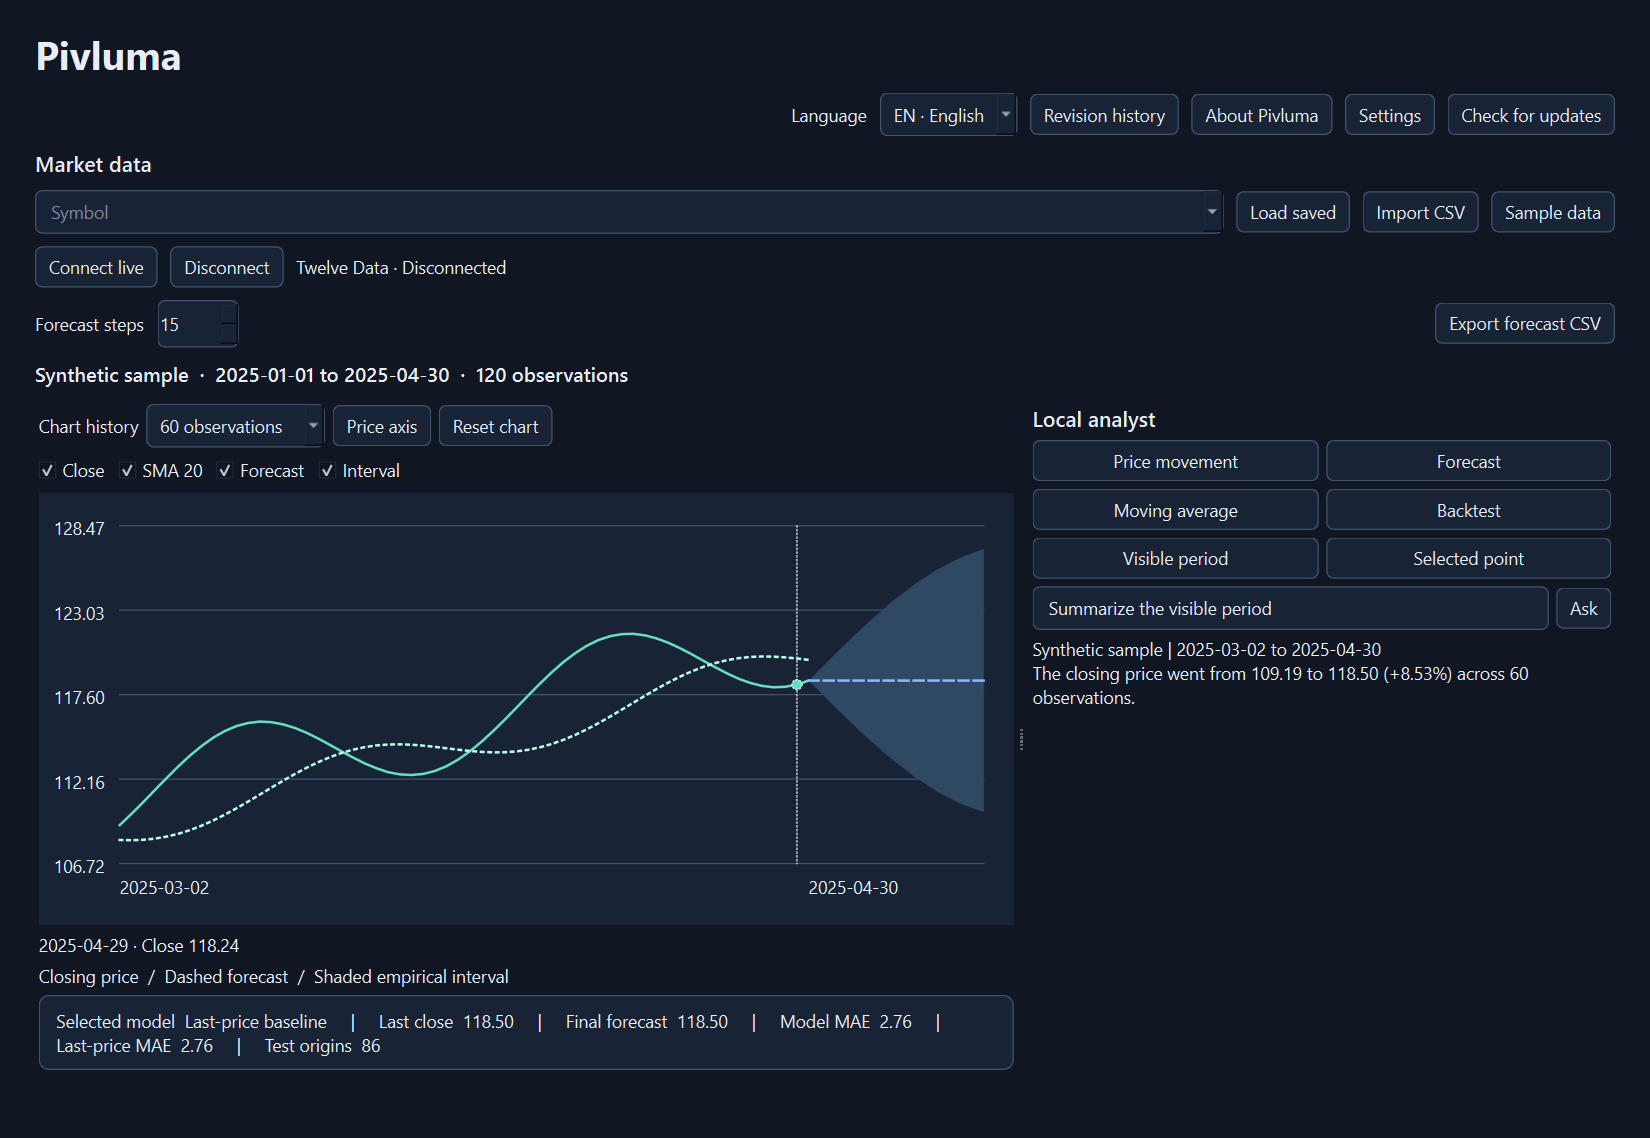
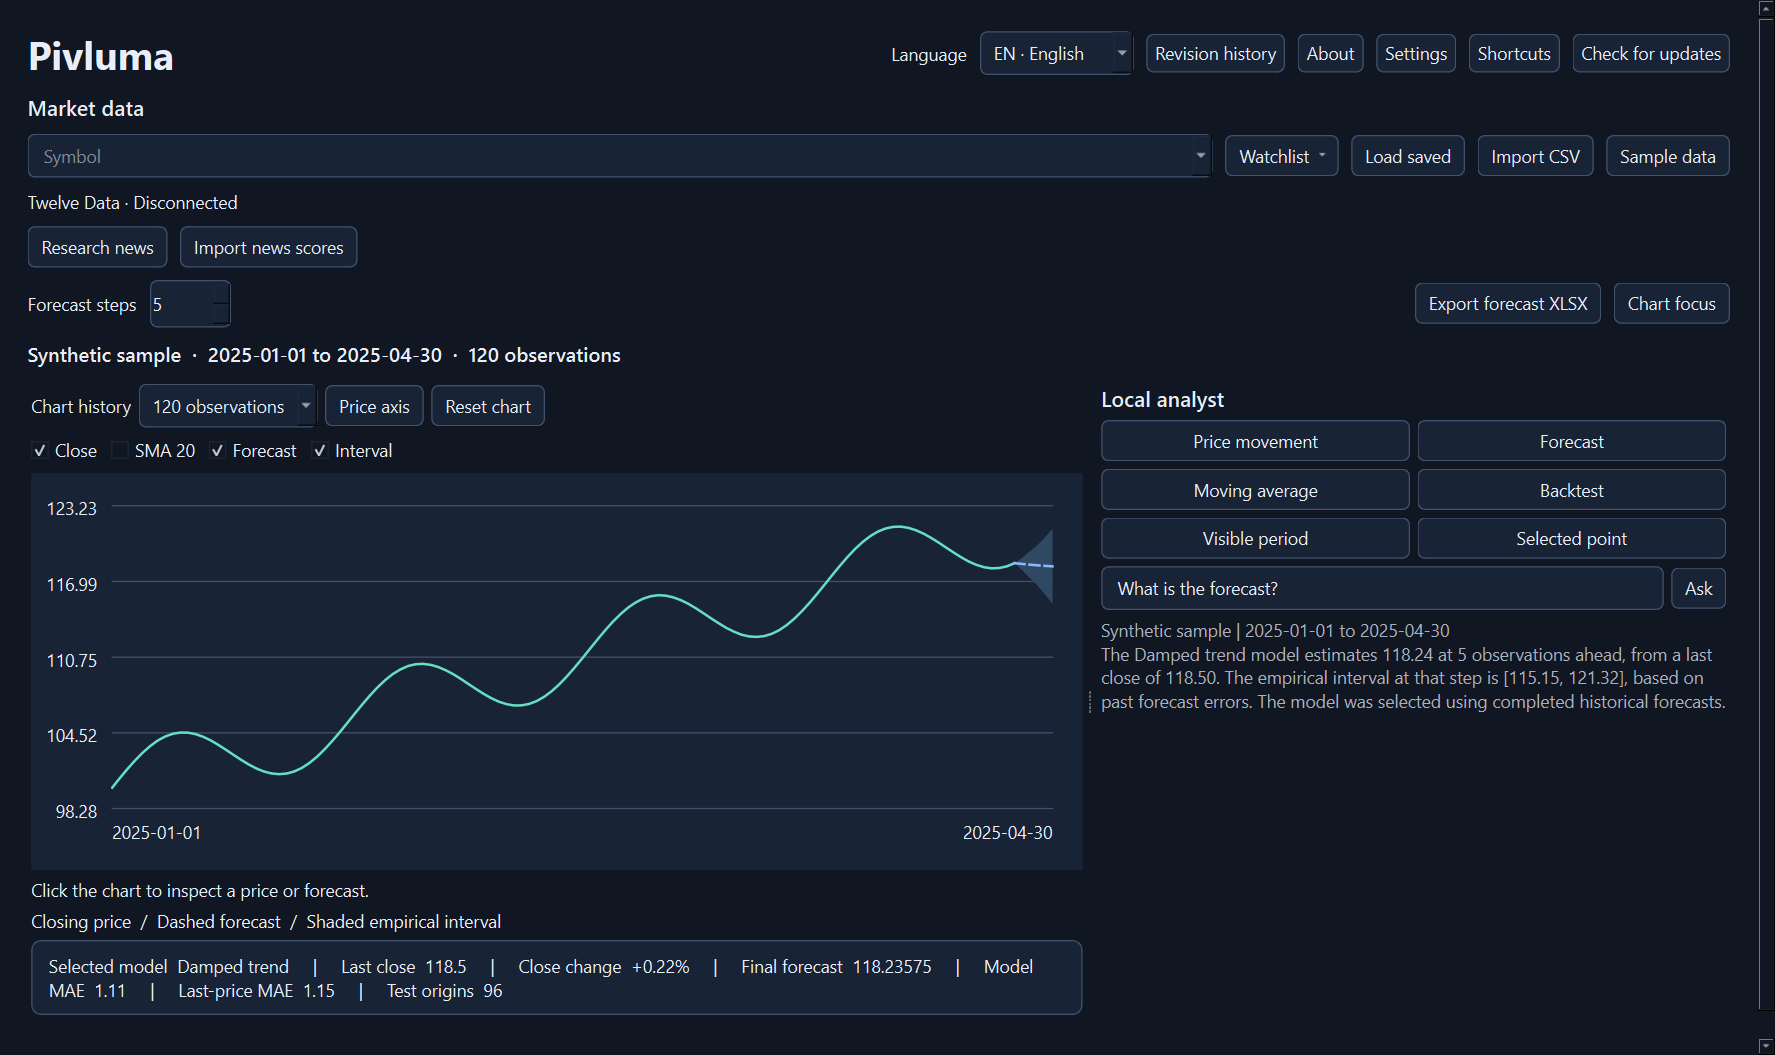
Release Pivluma 0.16.0 market workspace

diff --git a/pivluma/desktop.py b/pivluma/desktop.py
@@ -1,6 +1,7 @@
 """Offline market-analysis dashboard."""
 
 import os
+import re
 import sqlite3
 import sys
 from contextlib import closing
@@ -10,7 +11,7 @@ from pathlib import Path
 from PySide6.QtCore import QEasingCurve, QProcess, QPropertyAnimation, QSettings, QStandardPaths, Qt, QTimer
 from PySide6.QtGui import QIcon, QKeySequence, QShortcut
 from PySide6.QtWidgets import (
-    QApplication, QCheckBox, QComboBox, QFileDialog, QGraphicsOpacityEffect, QGridLayout, QHBoxLayout, QInputDialog, QLabel, QLineEdit, QMainWindow,
+    QApplication, QCheckBox, QComboBox, QFileDialog, QGraphicsOpacityEffect, QGridLayout, QHBoxLayout, QInputDialog, QLabel, QLineEdit, QMainWindow, QMenu,
     QProgressBar, QPushButton, QScrollArea, QSpinBox, QStyle, QSplitter, QStackedWidget, QTabWidget, QVBoxLayout, QWidget,
 )
 
@@ -35,6 +36,7 @@ SHORTCUTS = (
     ("F11", "Toggle maximized window", "toggle_fullscreen"),
     ("Esc", "Restore window size", "exit_fullscreen"),
     ("Ctrl+K", "Open symbol list", "open_symbol_list"),
+    ("Ctrl+Shift+F", "Chart focus", "toggle_chart_focus"),
     ("Ctrl+Shift+S", "Export forecast XLSX", "export_forecast"),
     ("Ctrl+,", "Settings", "open_settings"),
     ("F1", "Keyboard shortcuts", "open_shortcuts"),
@@ -50,6 +52,7 @@ class Dashboard(QMainWindow):
         self.language = "en"
         self.theme = "dark-blue"
         self.settings = None
+        self.watchlist = []
         self.analyst_model = ""
         self.cloud_url = ""
         self.cloud_code = ""
@@ -73,12 +76,17 @@ class Dashboard(QMainWindow):
         layout = QVBoxLayout(page)
         layout.setContentsMargins(22, 22, 22, 22)
         layout.setSpacing(10)
-        title = QLabel("Pivluma")
-        title.setObjectName("title")
+        self.compact_title = QLabel("Pivluma")
+        self.compact_title.setObjectName("title")
+        layout.addWidget(self.compact_title)
         header = QHBoxLayout()
-        layout.addWidget(title)
+        self.header_title = QLabel("Pivluma")
+        self.header_title.setObjectName("title")
+        header.addWidget(self.header_title)
         header.addStretch()
-        header.addWidget(self.localized_label("Language"))
+        self.language_label = self.localized_label("Language")
+        header.addWidget(self.language_label)
+        self.adjust_header()
         self.language_picker = QComboBox()
         self.language_picker.addItem("EN · English", "en")
         self.language_picker.addItem("TR · Türkçe", "tr")
@@ -115,6 +123,8 @@ class Dashboard(QMainWindow):
         market_section.addLayout(toolbar)
         self.symbol_picker = QComboBox()
         self.symbol_picker.setEditable(True)
+        self.symbol_picker.setSizeAdjustPolicy(QComboBox.SizeAdjustPolicy.AdjustToMinimumContentsLengthWithIcon)
+        self.symbol_picker.setMinimumContentsLength(12)
         self.symbol_picker.setInsertPolicy(QComboBox.InsertPolicy.NoInsert)
         self.symbol = self.symbol_picker.lineEdit()
         instruments = {**PUBLIC_SYMBOLS, **FX_SYMBOLS, **OTHER_SYMBOLS}
@@ -131,6 +141,11 @@ class Dashboard(QMainWindow):
         self.localize(self.symbol.setPlaceholderText, "Symbol")
         self.localize(self.symbol.setAccessibleName, "Symbol")
         toolbar.addWidget(self.symbol_picker, 1)
+        watch_button = self.localized_button("Watchlist")
+        self.watch_menu = QMenu(watch_button)
+        self.watch_menu.aboutToShow.connect(self.populate_watchlist)
+        watch_button.setMenu(self.watch_menu)
+        toolbar.addWidget(watch_button)
         for name, action in (("Load saved", self.load_saved), ("Import CSV", self.import_csv),
                              ("Sample data", self.show_sample)):
             button = self.localized_button(name)
@@ -216,6 +231,10 @@ class Dashboard(QMainWindow):
         self.export_button = self.localized_button("Export forecast XLSX")
         self.export_button.clicked.connect(self.export_forecast)
         forecast_controls.addWidget(self.export_button)
+        self.chart_focus_button = self.localized_button("Chart focus")
+        self.chart_focus_button.setCheckable(True)
+        self.chart_focus_button.toggled.connect(lambda _: self.arrange_workspace())
+        forecast_controls.addWidget(self.chart_focus_button)
         analyst_title = self.localized_label("Local analyst")
         analyst_title.setProperty("sectionTitle", True)
         analyst_layout.addWidget(analyst_title)
@@ -330,6 +349,37 @@ class Dashboard(QMainWindow):
         self.symbol.setFocus()
         self.symbol_picker.showPopup()
 
+    def toggle_chart_focus(self):
+        self.chart_focus_button.toggle()
+
+    def populate_watchlist(self):
+        self.watch_menu.clear()
+        symbol = self.symbol.text().strip().upper()
+        saved = symbol in self.watchlist
+        label = "Remove {symbol}" if saved else "Add {symbol} to watchlist"
+        action = self.watch_menu.addAction(
+            self.text(label, symbol=symbol) if symbol else self.text("Select a symbol first")
+        )
+        action.setEnabled(bool(re.fullmatch(r"[A-Z0-9][A-Z0-9./:_-]{0,31}", symbol)))
+        action.triggered.connect(lambda: self.toggle_watch_symbol(symbol))
+        self.watch_menu.addSeparator()
+        if not self.watchlist:
+            self.watch_menu.addAction(self.text("No saved symbols")).setEnabled(False)
+        for entry in self.watchlist:
+            self.watch_menu.addAction(entry, lambda entry=entry: self.open_watch_symbol(entry))
+
+    def toggle_watch_symbol(self, symbol):
+        if symbol in self.watchlist:
+            self.watchlist.remove(symbol)
+        else:
+            self.watchlist.append(symbol)
+        if self.settings is not None:
+            self.settings.setValue("watchlist", self.watchlist)
+
+    def open_watch_symbol(self, symbol):
+        self.symbol.setText(symbol)
+        self.connect_market()
+
     def open_settings(self):
         settings_dialog(self)
 
@@ -350,7 +400,14 @@ class Dashboard(QMainWindow):
         super().resizeEvent(event)
         if hasattr(self, "workspace_stack"):
             self.arrange_workspace()
+            self.adjust_header()
             self.update_label.setVisible(bool(self.update_message) and self.width() >= 1120)
+
+    def adjust_header(self):
+        inline = self.width() >= 1120
+        self.header_title.setVisible(inline)
+        self.compact_title.setVisible(not inline)
+        self.language_label.setVisible(inline)
 
     def render_update_status(self):
         message = self.update_message
@@ -383,6 +440,13 @@ class Dashboard(QMainWindow):
         elif not wide and self.workspace_tabs.count() != 2:
             self.workspace_tabs.addTab(self.chart_panel, self.text("Chart"))
             self.workspace_tabs.addTab(self.analyst_panel, self.text("Local analyst"))
+        focused = self.chart_focus_button.isChecked()
+        if wide:
+            self.analyst_panel.setVisible(not focused)
+        else:
+            self.workspace_tabs.setTabVisible(1, not focused)
+            if focused:
+                self.workspace_tabs.setCurrentIndex(0)
         self.workspace_stack.setCurrentWidget(self.workspace_splitter if wide else self.workspace_tabs)
 
     def reset_chart(self):
@@ -825,10 +889,13 @@ class Dashboard(QMainWindow):
             count=len(self.prices),
         ))
         result = self.chart.result
+        last_close = self.prices[-1].close
+        change = (last_close / self.prices[-2].close - 1) * 100
         fields = (
             ("Selected model", self.text(result.model)),
-            ("Last close", f"{self.prices[-1].close:.2f}"),
-            ("Final forecast", f"{result.forecast[-1]:.2f}"),
+            ("Last close", f"{last_close:.8g}"),
+            ("Close change", f"{change:+.2f}%"),
+            ("Final forecast", f"{result.forecast[-1]:.8g}"),
             ("Model MAE", f"{result.mae:.2f}"),
             ("Last-price MAE", f"{result.baseline_mae:.2f}"),
             ("Test origins", str(result.origins)),
@@ -847,6 +914,7 @@ def main():
     application.setWindowIcon(window.windowIcon())
     settings = QSettings("Pivluma", "Pivluma")
     window.settings = settings
+    window.watchlist = settings.value("watchlist", [], type=list)
     window.change_theme(settings.value("theme", "dark-blue", type=str))
     window.set_cloud_access(settings.value("cloud_url", "", type=str), "")
     window.set_analyst_model(settings.value("analyst_model", "", type=str))

diff --git a/tests/test_desktop.py b/tests/test_desktop.py
@@ -11,7 +11,7 @@ from unittest.mock import Mock, patch
 os.environ.setdefault("QT_QPA_PLATFORM", "offscreen")
 
 try:
-    from PySide6.QtCore import QPoint, QPointF, Qt
+    from PySide6.QtCore import QPoint, QPointF, QSettings, Qt
     from PySide6.QtGui import QWheelEvent
     from PySide6.QtTest import QTest
     from PySide6.QtWidgets import QApplication, QMessageBox
@@ -30,6 +30,47 @@ class DashboardTests(unittest.TestCase):
     @classmethod
     def setUpClass(cls):
         cls.application = QApplication.instance() or QApplication([])
+
+    def test_watchlist_navigation_and_persistence(self):
+        with tempfile.TemporaryDirectory() as folder:
+            settings = QSettings(str(Path(folder) / "settings.ini"), QSettings.Format.IniFormat)
+            window = Dashboard(Path("unused.sqlite3"))
+            try:
+                window.settings = settings
+                window.symbol.setText("USD/TRY")
+                window.watch_menu.aboutToShow.emit()
+                window.watch_menu.actions()[0].trigger()
+                self.assertEqual(settings.value("watchlist"), ["USD/TRY"])
+                window.symbol.clear()
+                window.watch_menu.aboutToShow.emit()
+                with patch.dict(os.environ, {"TWELVE_DATA_API_KEY": ""}), patch.object(window.market, "start") as start:
+                    window.watch_menu.actions()[-1].trigger()
+                self.assertEqual(window.live_symbol, "USD/TRY")
+                start.assert_called_once_with("USD/TRY", None)
+                window.watch_menu.aboutToShow.emit()
+                window.watch_menu.actions()[0].trigger()
+                self.assertEqual(settings.value("watchlist"), [])
+            finally:
+                window.close()
+                delete(window)
+
+    def test_chart_focus_survives_compact_reflow(self):
+        window = Dashboard(Path("unused.sqlite3"))
+        try:
+            window.show()
+            self.application.processEvents()
+            window.chart_focus_button.click()
+            self.assertTrue(window.analyst_panel.isHidden())
+            self.assertTrue(window.chart_panel.isVisible())
+            window.resize(760, 680)
+            self.application.processEvents()
+            self.assertFalse(window.workspace_tabs.isTabVisible(1))
+            window.chart_focus_button.click()
+            self.assertTrue(window.workspace_tabs.isTabVisible(1))
+            self.assertTrue(window.chart_panel.isVisible())
+        finally:
+            window.close()
+            delete(window)
 
     def test_sample_draws_and_horizon_refreshes(self):
         window = Dashboard(Path("unused.sqlite3"))

diff --git a/pivluma/appearance.py b/pivluma/appearance.py
@@ -59,6 +59,10 @@ def stylesheet(colors):
         QPushButton, QLineEdit, QSpinBox, QDoubleSpinBox, QComboBox, QPlainTextEdit {{
             background: {surface}; border: 1px solid {border}; border-radius: 6px; padding: 6px 10px;
         }}
+        QMenu {{ background: {surface}; border: 1px solid {border}; padding: 4px; }}
+        QMenu::item {{ padding: 6px 20px; }}
+        QMenu::item:selected {{ background: {background}; color: {accent}; }}
+        QPushButton:checked {{ border-color: {accent}; color: {accent}; }}
         QProgressBar {{ background: {surface}; border: 0; border-radius: 2px; }}
         QProgressBar::chunk {{ background: {accent}; border-radius: 2px; }}
         QPushButton[headerAction="true"] {{ padding: 5px 6px; }}

diff --git a/pivluma/localization.py b/pivluma/localization.py
@@ -3,6 +3,13 @@
 from pivluma.chinese import CHINESE
 
 TURKISH = {
+    "Watchlist": "İzleme listesi",
+    "Chart focus": "Grafiğe odaklan",
+    "Remove {symbol}": "{symbol} listesinden kaldır",
+    "Add {symbol} to watchlist": "{symbol} izleme listesine ekle",
+    "Select a symbol first": "Önce bir sembol seçin",
+    "No saved symbols": "Kayıtlı sembol yok",
+    "Close change": "Kapanış değişimi",
     "ECB · Loading daily history": "ECB · Günlük geçmiş yükleniyor",
     "ECB · Daily reference rates": "ECB · Günlük referans kurları",
     "ECB · Daily reference rates unavailable.": "ECB · Günlük referans kurları alınamadı.",

diff --git a/pivluma/chinese.py b/pivluma/chinese.py
@@ -1,6 +1,13 @@
 """Simplified Chinese desktop translations."""
 
 CHINESE = {
+    "Watchlist": "自选列表",
+    "Chart focus": "专注图表",
+    "Remove {symbol}": "移除 {symbol}",
+    "Add {symbol} to watchlist": "将 {symbol} 加入自选",
+    "Select a symbol first": "请先选择品种",
+    "No saved symbols": "暂无自选品种",
+    "Close change": "收盘变动",
     "ECB · Loading daily history": "ECB · 正在加载历史日线",
     "ECB · Daily reference rates": "ECB · 每日参考汇率",
     "ECB · Daily reference rates unavailable.": "ECB · 无法获取每日参考汇率。",

diff --git a/pivluma/__init__.py b/pivluma/__init__.py
@@ -1,3 +1,3 @@
 """Pivluma desktop market analysis."""
 
-__version__ = "0.15.1"
+__version__ = "0.16.0"

diff --git a/README.md b/README.md
@@ -6,7 +6,7 @@ Pivluma is a Windows desktop application in development for financial forecastin
 
 ## Current release
 
-[Pivluma 0.15.1](https://github.com/muratkorayozkan/Pivluma/releases/tag/v0.15.1) is the current release. Download the [portable Windows x64 ZIP](https://github.com/muratkorayozkan/Pivluma/releases/latest), extract it, and run Pivluma.exe. The themed Windows Setup EXE is available on the same release page, alongside the standalone MSI. Setup starts with the Windows light or dark preference and offers a theme switch. It installs to `C:\Program Files\Pivluma` with a Start menu entry. Its desktop shortcut option is selected by default and can be cleared during setup. Windows requests administrator approval for the MSI.
+[Pivluma 0.16.0](https://github.com/muratkorayozkan/Pivluma/releases/tag/v0.16.0) is the current release. Download the [portable Windows x64 ZIP](https://github.com/muratkorayozkan/Pivluma/releases/latest), extract it, and run Pivluma.exe. The themed Windows Setup EXE is available on the same release page, alongside the standalone MSI. Setup starts with the Windows light or dark preference and offers a theme switch. It installs to `C:\Program Files\Pivluma` with a Start menu entry. Its desktop shortcut option is selected by default and can be cleared during setup. Windows requests administrator approval for the MSI.
 
 The forecasting engine compares a last-price baseline, linear trend, damped trend, and exponentially smoothed level. At each origin it uses only completed prior forecasts to select a model, using recent errors at several lead times. The dashboard reports the selected model and compares the full selection strategy against the last-price baseline on the same walk-forward origins. Forecast intervals use empirical errors for each step.
 
@@ -31,6 +31,10 @@ The chart and analyst appear side by side in wide windows and in separate tabs i
 
 The upper-right controls open revision history, the about page, and settings. **Settings → Theme** includes a Windows system option and light and dark palettes. The theme is remembered on this PC. Revision history loads recent published GitHub release notes.
 
+Open **Watchlist** beside the symbol picker to save the current symbol or reopen a saved one. The list is stored on this PC. Selecting a saved symbol updates the same chart, forecast, and analyst context used by the symbol picker. Use **Chart focus** or **Ctrl+Shift+F** to make more room for the chart. The price summary shows the change from the previous observation, which can be an earlier working day for FX.
+
+[Interface research and design decisions](docs/interface-research.md)
+
 The dashboard scrolls vertically when the controls, chart, and analyst response exceed the window height.
 
 ## Automatic updates on Windows
@@ -53,7 +57,7 @@ python -m venv .venv
 .\scripts\build-windows.ps1 -Python .\.venv\Scripts\python.exe
 ```
 
-The script builds and smoke-tests `dist/Pivluma/Pivluma.exe`, then creates `dist/Pivluma-0.15.1-Windows.zip` and prints its SHA-256 hash. Extract the entire archive and open `Pivluma.exe` inside the extracted folder. Keep the neighboring `_internal` folder with the executable. The build is unsigned and includes its own Python runtime.
+The script builds and smoke-tests `dist/Pivluma/Pivluma.exe`, then creates `dist/Pivluma-0.16.0-Windows.zip` and prints its SHA-256 hash. Extract the entire archive and open `Pivluma.exe` inside the extracted folder. Keep the neighboring `_internal` folder with the executable. The build is unsigned and includes its own Python runtime.
 
 
 ## Connect live market data
@@ -69,7 +73,7 @@ The chart uses daily REST history. If daily history is unavailable, Pivluma stil
 Provider references: [Kraken daily history](https://docs.kraken.com/api/docs/rest-api/get-ohlc-data), [Kraken ticker stream](https://docs.kraken.com/api/docs/websocket-v2/ticker), [REST API](https://twelvedata.com/docs), [WebSocket API](https://twelvedata.com/docs/websocket/websocket-getting-started), and [plans](https://twelvedata.com/pricing).
 
 
-To build the themed Setup EXE and standalone MSI after building the portable package, run `./scripts/build-setup.ps1 -WixBin PATH_TO_WIX_BINARIES` with the WiX 3.14.1 binaries. This creates `dist/Pivluma-0.15.1-Windows-Setup.exe` and `dist/Pivluma-0.15.1-Windows-Setup.msi`.
+To build the themed Setup EXE and standalone MSI after building the portable package, run `./scripts/build-setup.ps1 -WixBin PATH_TO_WIX_BINARIES` with the WiX 3.14.1 binaries. This creates `dist/Pivluma-0.16.0-Windows-Setup.exe` and `dist/Pivluma-0.16.0-Windows-Setup.msi`.
 
 ## Cloud analyst
 

diff --git a/docs/interface-research.md b/docs/interface-research.md
@@ -1,0 +1,17 @@
+# Interface research
+
+The review followed three desktop workflows in official product documentation. It covered selecting an instrument, creating space for the chart, and keeping price context visible.
+
+| Workflow | What the products do | Pivluma decision |
+| --- | --- | --- |
+| Switch instruments | thinkorswim links watchlist selections to charts through a common link color. IBKR Desktop can synchronize symbols across tools in a custom layout. | A saved symbol uses the existing market-selection path. The active chart, forecast, and analyst use the same series. |
+| Save a ticker | TradingView provides a quick action to save the current symbol. thinkorswim keeps watchlist management near the market tools. | Add and remove the current symbol from the Watchlist menu adjacent to the symbol picker. Store the list locally. |
+| Make room for analysis | IBKR Desktop lets users hide chart-adjacent panels. thinkorswim lets users resize cells in its Flexible Grid. | Keep the resizable wide layout and compact tabs. Chart focus hides the analyst without rebuilding the chart or losing the current selection. |
+| Read price context | TradingView exposes ticker and chart values in chart settings. IBKR watchlists commonly show last price and change. | The active series summary shows the last close and its signed percentage change from the previous observation. More significant digits keep low-priced instruments readable. |
+| Maintain workspace context | TradingView saves chart layout properties. thinkorswim distinguishes shared watchlists from device-stored workspace preferences. | Save watchlist entries on this PC. Keep chart focus as an in-session choice and continue opening on BTC/USD. |
+
+## Sources
+
+- TradingView [Supercharts settings](https://www.tradingview.com/support/solutions/43000748166-how-to-configure-your-supercharts/), [layouts](https://www.tradingview.com/support/solutions/43000746975-tradingview-layouts-a-quick-guide/) and [quick watchlist action](https://www.tradingview.com/support/solutions/43000542366-how-to-quickly-add-a-symbol-to-the-watchlist/).
+- thinkorswim [chart FAQ](https://toslc.thinkorswim.com/center/faq/Charts), [watchlist](https://toslc.thinkorswim.com/center/howToTos/thinkManual/Left-Sidebar/Watch-Lists.html) and [Flexible Grid](https://toslc.thinkorswim.com/center/howToTos/thinkManual/charts/Flexible-Grid).
+- IBKR Desktop [chart controls](https://www.interactivebrokers.com/campus/trading-lessons/ibkr-desktop-introduction-to-charts/), [custom layouts](https://www.interactivebrokers.com/campus/trading-lessons/ibkr-desktop-custom-layout/) and [watchlist data](https://www.interactivebrokers.com/campus/glossary-terms/watchlist/).
